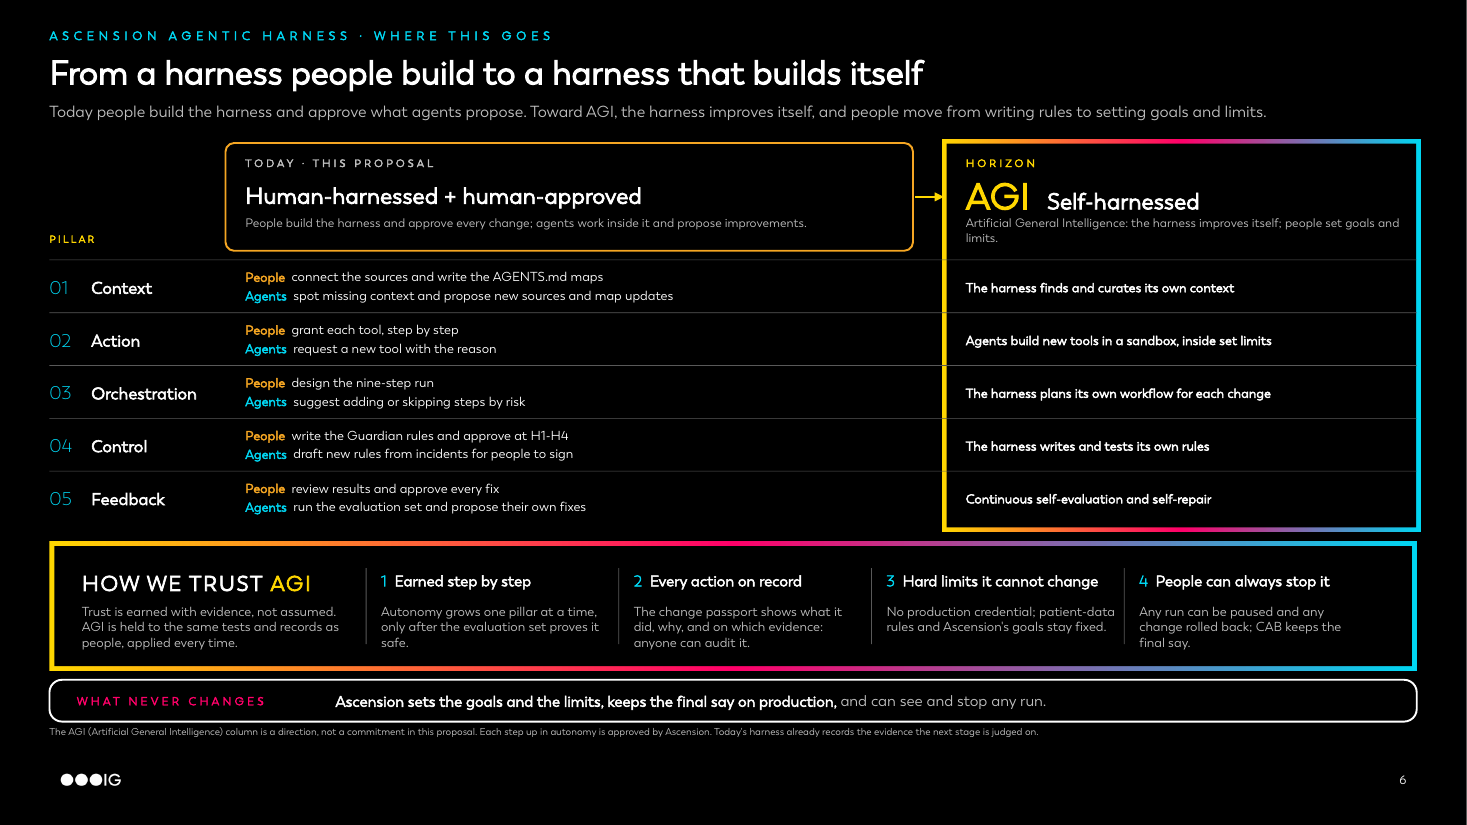
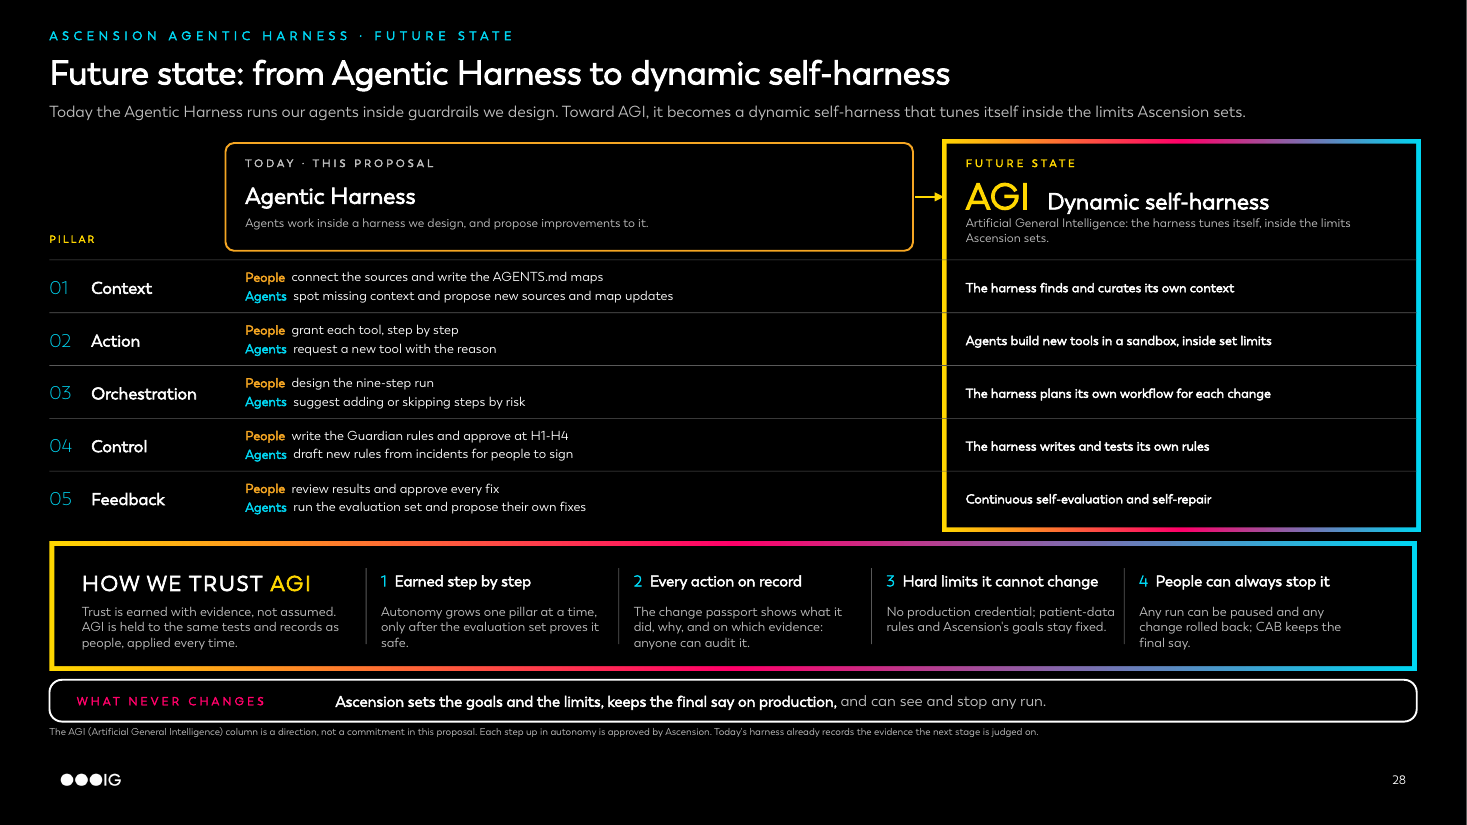
Previews: future-state slide renamed; bounded loops and run reports slide
Not yet in the deck.

Claude-Session: https://claude.ai/code/session_01Hf94kqMzSofkkrQm7kpNba

diff --git a/poc/deck/story_slides.py b/poc/deck/story_slides.py
@@ -648,13 +648,13 @@ IF ASKED
 
 
 # ================================================================== today -> AGI
-# How the harness itself evolves: this proposal is human-harnessed and human-approved;
+# How the harness itself evolves: this proposal is the Agentic Harness;
 # the AGI horizon is self-harnessed.
 AUTONOMY_STAGES = [
-    ("TODAY · THIS PROPOSAL", "Human-harnessed + human-approved",
-     "People build the harness and approve every change; agents work inside it and propose improvements."),
-    ("HORIZON", "Self-harnessed",
-     "Artificial General Intelligence: the harness improves itself; people set goals and limits."),
+    ("TODAY · THIS PROPOSAL", "Agentic Harness",
+     "Agents work inside a harness we design, and propose improvements to it."),
+    ("FUTURE STATE", "Dynamic self-harness",
+     "Artificial General Intelligence: the harness tunes itself, inside the limits Ascension sets."),
 ]
 AUTONOMY_ROWS = [
     ("Context", [("connect the sources and write the AGENTS.md maps",
@@ -679,10 +679,10 @@ def autonomy_slide(prs, layout):
     s = prs.slides.add_slide(layout)
     set_bg(s, BLACK)
     cv = Canvas(s)
-    dark_header(cv, "ASCENSION MAD APPROACH · WHERE THIS GOES",
-                "From a harness people build to a harness that builds itself",
-                "Today people build the harness and approve what agents propose. Toward AGI, the harness improves "
-                "itself, and people move from writing rules to setting goals and limits.")
+    dark_header(cv, "ASCENSION MAD APPROACH · FUTURE STATE",
+                "Future state: from Agentic Harness to dynamic self-harness",
+                "Today the Agentic Harness runs our agents inside guardrails we design. Toward AGI, it becomes a dynamic "
+                "self-harness that tunes itself inside the limits Ascension sets.")
     X0, W = 0.45, 12.43
     lw, gap = 1.6, 0.3
     w1 = 6.25
@@ -766,20 +766,20 @@ def autonomy_slide(prs, layout):
     return s
 
 
-AUTONOMY_NOTES = """SLIDE: From a human-built harness to a self-harnessing one   (about 2 minutes)
+AUTONOMY_NOTES = """SLIDE: Future state, from Agentic Harness to dynamic self-harness   (about 2 minutes)
 
 KEY MESSAGE
-What we propose is a harness people build and approve: people decide the context, the tools, the steps, the rules and how it learns; agents work inside it and propose improvements, and people approve each one. As models move toward AGI, the harness starts to improve itself inside limits people set. What never changes is who sets the goals and holds the final say.
+What we propose is the Agentic Harness: a harness we design: people decide the context, the tools, the steps, the rules and how it learns; agents work inside it and propose improvements, and people approve each one. As models move toward AGI, the harness starts to improve itself inside limits people set. What never changes is who sets the goals and holds the final say.
 
 WALK IT (left to right, then down the five pillars from the previous slide)
-- This proposal, human-harnessed and human-approved: people connect the sources and write the maps, grant each tool, design the nine-step run, write the Guardian rules and approve every fix. Agents propose: missing context, a new tool with its reason, a step to add or skip by risk, a rule drafted from an incident, a fix tested on the evaluation set. Nothing changes without a person's approval.
-- Horizon, AGI (Artificial General Intelligence), self-harnessed: the harness curates its own context, builds its own tools in a sandbox, plans its own workflow and writes and tests its own rules, continuously.
+- This proposal, the Agentic Harness: people connect the sources and write the maps, grant each tool, design the nine-step run, write the Guardian rules and approve every fix. Agents propose: missing context, a new tool with its reason, a step to add or skip by risk, a rule drafted from an incident, a fix tested on the evaluation set. Nothing changes without a person's approval.
+- Future state, AGI (Artificial General Intelligence), dynamic self-harness: the harness curates its own context, builds its own tools in a sandbox, plans its own workflow and writes and tests its own rules, continuously.
 
 WHY IT MATTERS FOR ASCENSION
 Investing in the harness now is not throw-away work: every run, approval, rejection and incident recorded today is exactly the evidence the next stage needs to earn more autonomy safely.
 
 IF ASKED
-- Is AGI part of this price or plan? No. The AGI column is a direction. The 18-month plan delivers the human-harnessed, human-approved harness, with the records the next stage needs.
+- Is AGI part of this price or plan? No. The AGI column is a direction. The 18-month plan delivers the Agentic Harness, with the records the next stage needs.
 - When does autonomy increase? Only when the evaluation set and change passport show it is safe, and only with Ascension's approval, one pillar at a time.
 - Could it ever reach production on its own? Not in this design. Production stays with Ascension's owning teams and CAB at every stage.
 
@@ -788,7 +788,145 @@ At every stage, Ascension sets the goals and the limits, keeps the final say on 
 
 HOW WE TRUST AGI (the highlighted panel)
 Why trust it at all: it is held to the same evidence as a person, and checked every time, which people cannot always do. How:
-1 Earned step by step: autonomy grows one pillar at a time, only when the evaluation set shows it performs at least as well as the human-approved process.
+1 Earned step by step: autonomy grows one pillar at a time, only when the evaluation set shows it performs at least as well as today's process.
 2 Every action on record: the change passport records what it did, why, and on which evidence, so any decision can be audited.
 3 Hard limits it cannot change: no production credential, patient-data rules and Ascension's goals sit outside its reach.
 4 People can always stop it: any run can be paused, any change rolled back, and CAB keeps the final say."""
+
+
+# ================================================================== bounded loops + run reports
+MAX_ATTEMPTS = 5
+GREEN = "56E13B"
+REPORT_FIELDS = [
+    ("Time", "per step and end to end, story to release"),
+    ("Attempts", "how many times each step ran (1-5), and why"),
+    ("Re-run time", "time and cost spent on attempts 2 to 5"),
+    ("Waiting time", "how long each human gate held the run"),
+    ("Cost", "tokens and cloud cost per run, per pod"),
+    ("Stopped runs", "where it stopped, why, and who took over"),
+]
+
+
+def loops_slide(prs, layout):
+    s = prs.slides.add_slide(layout)
+    set_bg(s, BLACK)
+    cv = Canvas(s)
+    dark_header(cv, "ASCENSION MAD APPROACH · BOUNDED LOOPS AND RUN REPORTS",
+                "No endless loops: every step stops after %d attempts" % MAX_ATTEMPTS,
+                "An agent retries until its output passes the checks, but never more than %d times. Then the run stops, "
+                "a named owner takes over, and every attempt is in the run report." % MAX_ATTEMPTS)
+    ORANGE_LINE = "F5A623"
+    X0 = 0.45
+    LW = 7.55                                   # loop panel width
+    # ---- the loop
+    py, ph = 1.32, 4.42
+    cv.rect(X0, py, LW, ph, None, ORANGE_LINE, 1.25, MSO_SHAPE.ROUNDED_RECTANGLE, 0.04)
+    cv.label(X0 + 0.22, py + 0.16, 4, "How every step runs", color=YELLOW)
+    by, bh, bw = py + 0.62, 0.78, 1.7
+
+    def node(x, t, sub, line=WHITE, fill=None, tcol=WHITE):
+        cv.rect(x, by, bw, bh, fill, line, 1.25, MSO_SHAPE.ROUNDED_RECTANGLE, 0.15)
+        cv.text(x + 0.1, by + 0.08, bw - 0.2, 0.28, t, size=10, bold=True, color=tcol, align=PP_ALIGN.CENTER,
+                anchor=MSO_ANCHOR.MIDDLE)
+        cv.text(x + 0.1, by + 0.38, bw - 0.2, 0.34, sub, size=7, color=SOFT if fill is None else BLACK,
+                align=PP_ALIGN.CENTER)
+
+    x1 = X0 + 0.25
+    x2 = x1 + bw + 0.42
+    node(x1, "Agent attempt", "drafts the output for this step")
+    node(x2, "Checks", "schema, tests, Code Analyzer, Guardian, review")
+    # decision
+    dx, dw = x2 + bw + 0.36, 1.5
+    cv.rect(dx, by - 0.16, dw, bh + 0.32, None, CYAN, 1.25, MSO_SHAPE.DIAMOND)
+    cv.text(dx + 0.3, by - 0.16, dw - 0.6, bh + 0.32, ["Outcome", "met?"], size=8.5, bold=True, color=WHITE,
+            align=PP_ALIGN.CENTER, anchor=MSO_ANCHOR.MIDDLE)
+    cv.arrow(x1 + bw, by + bh / 2, x2, by + bh / 2, WHITE, 1.5)
+    cv.arrow(x2 + bw, by + bh / 2, dx, by + bh / 2, WHITE, 1.5)
+    # yes
+    yx = dx + dw + 0.15
+    cv.arrow(dx + dw, by + bh / 2, X0 + LW - 0.2, by + bh / 2, GREEN, 1.75)
+    cv.text(yx, by + bh / 2 - 0.42, X0 + LW - 0.25 - yx, 0.38, [[("YES", {"bold": True, "color": GREEN})],
+                                                                   [("next step or human gate", {"color": SOFT})]],
+            size=7, anchor=MSO_ANCHOR.BOTTOM)
+    # no -> back to attempt
+    ly = by + bh + 0.42
+    cv.arrow(dx + dw / 2, by + bh + 0.16, dx + dw / 2, ly, MAGENTA, 1.5, head=False)
+    cv.arrow(dx + dw / 2, ly, x1 + bw / 2, ly, MAGENTA, 1.5, head=False)
+    cv.arrow(x1 + bw / 2, ly, x1 + bw / 2, by + bh, MAGENTA, 1.5)
+    cv.text(x1 + bw / 2 + 0.1, ly + 0.04, 4.0, 0.22,
+            [[("NO  ", {"bold": True, "color": MAGENTA}),
+              ("try again with the failure as feedback: attempt + 1", {"color": SOFT})]], size=7.5)
+    # attempt counter
+    cy = ly + 0.48
+    cv.text(X0 + 0.25, cy, 2.0, 0.42, "Attempt counter", size=8.5, bold=True, color=WHITE, anchor=MSO_ANCHOR.MIDDLE)
+    for i in range(MAX_ATTEMPTS):
+        cx_ = X0 + 1.85 + i * 0.62
+        last = i == MAX_ATTEMPTS - 1
+        cv.rect(cx_, cy + 0.03, 0.36, 0.36, MAGENTA if last else None, MAGENTA if last else CYAN, 1.25,
+                MSO_SHAPE.OVAL)
+        cv.text(cx_, cy + 0.03, 0.36, 0.36, str(i + 1), size=10, bold=True, color=WHITE, align=PP_ALIGN.CENTER,
+                anchor=MSO_ANCHOR.MIDDLE)
+        if not last:
+            cv.arrow(cx_ + 0.37, cy + 0.21, cx_ + 0.61, cy + 0.21, LINE_D, 1.0, head=False)
+    # stop card: the differentiator
+    sx = X0 + 1.85 + MAX_ATTEMPTS * 0.62 + 0.1
+    fx, fy, fw, fh = cv.frame(sx, cy - 0.12, X0 + LW - 0.22 - sx, 1.32, BLACK, 0.04)
+    cv.text(fx + 0.14, fy + 0.08, fw - 0.28, 0.3, "STOP AFTER %d" % MAX_ATTEMPTS, size=12, bold=True, color=YELLOW,
+            track=100, anchor=MSO_ANCHOR.MIDDLE)
+    cv.text(fx + 0.14, fy + 0.42, fw - 0.28, fh - 0.48,
+            ["The run pauses; nothing is released.",
+             "A named owner gets every attempt, the failures and the evidence, in Jira.",
+             "Run budgets and timeouts can stop it sooner."], size=7.5, color=WHITE, after=3)
+    cv.text(X0 + 0.25, cy + 0.55, 3.5, 0.62,
+            "Applies to every agent step, not one: build, test, review, release preparation.", size=7.5,
+            color=SOFT)
+    # ---- the run report
+    rx = X0 + LW + 0.2
+    rw = 12.88 - rx
+    cv.rect(rx, py, rw, ph, None, CYAN, 1.25, MSO_SHAPE.ROUNDED_RECTANGLE, 0.04)
+    cv.label(rx + 0.22, py + 0.16, rw - 0.4, "Run report · from the log of every run", color=YELLOW)
+    cv.text(rx + 0.22, py + 0.38, rw - 0.44, 0.4,
+            "Every step, attempt and wait is logged, so each run can be reported, per story, per pod and per agent.",
+            size=8, color=SOFT)
+    fy0 = py + 0.9
+    rh_ = (ph - 1.42) / len(REPORT_FIELDS)
+    for i, (k, d) in enumerate(REPORT_FIELDS):
+        y = fy0 + i * rh_
+        if i:
+            cv.rect(rx + 0.22, y - 0.03, rw - 0.44, 0.006, LINE_D)
+        cv.text(rx + 0.22, y, 1.3, rh_ - 0.06, k, size=9.5, bold=True, color=WHITE, anchor=MSO_ANCHOR.MIDDLE)
+        cv.text(rx + 1.55, y, rw - 1.8, rh_ - 0.06, d, size=8, color=SOFT, anchor=MSO_ANCHOR.MIDDLE)
+    cv.text(rx + 0.22, py + ph - 0.5, rw - 0.44, 0.4,
+            "Source: change passport in BigQuery and Cloud Logging; weekly report to each pod lead.", size=7,
+            color=CYAN)
+    # ---- why it matters
+    wy, wh = py + ph + 0.16, 0.56
+    cv.rect(X0, wy, 12.43, wh, None, WHITE, 1.25, MSO_SHAPE.ROUNDED_RECTANGLE, 0.2)
+    cv.text(X0 + 0.25, wy, 2.2, wh, "WHY IT MATTERS", size=7.5, bold=True, color=MAGENTA, track=200,
+            anchor=MSO_ANCHOR.MIDDLE)
+    cv.text(X0 + 2.4, wy, 12.43 - 2.65, wh,
+            [[("Time and cost stay predictable: no run burns budget silently. ", {"bold": True, "color": WHITE}),
+              ("Steps that often need several attempts show exactly where the harness needs a fix.",
+               {"color": SOFT})]], size=10, anchor=MSO_ANCHOR.MIDDLE)
+    dark_footer(s)
+    set_notes(s, LOOPS_NOTES)
+    return s
+
+
+LOOPS_NOTES = """SLIDE: Bounded loops and run reports   (about 2 minutes)
+
+KEY MESSAGE
+Agents are allowed to try again, but never forever. Every step stops after five attempts if the outcome is not met, a named owner takes over, and every attempt is in the run report.
+
+WALK IT
+- The loop: an agent attempts the step; the output goes through the checks (schema, tests, Code Analyzer, Change Guardian, review). If the outcome is met, the run moves on to the next step or the human gate. If not, the agent tries again with the failure as feedback.
+- The counter: up to five attempts. After the fifth, the run stops: nothing is released, and the owner gets all attempts, failures and evidence in Jira. Per-run budgets and timeouts can stop it earlier.
+- The run report: every step, attempt and wait is logged in the change passport and Cloud Logging, so we can report time per step and end to end, attempts and why, time and cost spent re-running, waiting time at human gates, token and cloud cost, and stopped runs. Weekly per pod lead.
+
+WHY IT MATTERS
+No runaway cost, no silent loops, and repeated attempts on the same kind of step point to the exact place the harness needs improving (the Feedback pillar).
+
+IF ASKED
+- Why five? Enough for an agent to correct itself on most failures, low enough to keep cost and time predictable. It is a setting; Ascension can change it per step.
+- What does a stopped run cost us? Only the attempts made, and they are in the report. Nothing reaches any environment beyond DEV without passing the checks.
+- Can we see this live? Yes: the same log feeds a dashboard per story, pod and agent."""
